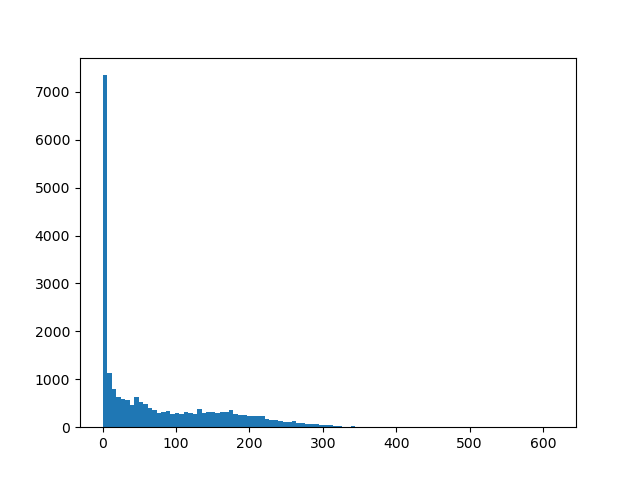
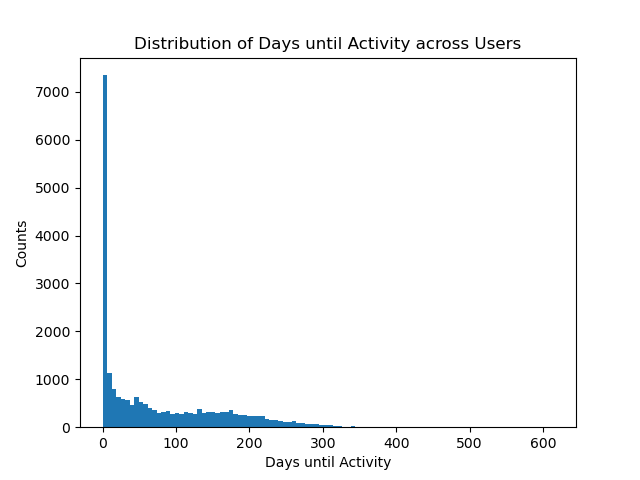
expanding answers, adding labels to graphs and fixing some mistakes

Changed region(s): [[0.2188, 0.0625, 0.8125, 0.125], [0.4062, 0.9375, 0.625, 1.0], [0.0312, 0.4688, 0.0625, 0.5625]]

diff --git a/pipeline/lin_reg_modelling.py b/pipeline/lin_reg_modelling.py
@@ -113,7 +113,7 @@ def lin_reg_week1_rev(file, df_acts_users, df_users):
     stat_sig_vars = coefs_and_p_vals.loc[coefs_and_p_vals["Probabilities"] < 0.05,"Variables"].to_list()
 
     file.write("\n\n9)")
-    file.write(f"\nT he statistically significant variables at a 5% level are {stat_sig_vars}")
+    file.write(f"\n The statistically significant variables at a 5% level are {stat_sig_vars}")
 
     return X, y
 
@@ -137,9 +137,6 @@ def predict_given_features(file, X, y):
     british_women_1week_earn = round(model.predict(predict_X)[2], 2)
 
     file.write(f"\n\n10)")
-    file.write(f"\n The average 40-year-old French woman, having generated GBP 20 on registration date, would expect to earn {french_women_1week_earn} in her first week")
-    file.write(f"\n The average 40-year-old German woman, having generated GBP 20 on registration date, would expect to earn {german_women_1week_earn} in her first week")
-    file.write(f"\n The average 40-year-old British woman, having generated GBP 20 on registration date, would expect to earn {british_women_1week_earn} in her first week")
-
-
-
+    file.write(f"\n The average 40-year-old French woman, having generated GBP 20 on registration date, would expect to earn {french_women_1week_earn} in her first week.")
+    file.write(f"\n The average 40-year-old German woman, having generated GBP 20 on registration date, would expect to earn {german_women_1week_earn} in her first week.")
+    file.write(f"\n The average 40-year-old British woman, having generated GBP 20 on registration date, would expect to earn {british_women_1week_earn} in her first week.")

diff --git a/pipeline/visualise_rev_dist.py b/pipeline/visualise_rev_dist.py
@@ -10,14 +10,23 @@ import matplotlib.pyplot as plt
 def visualise_rev_dist(df_acts_users):
 
     plt.hist(df_acts_users["Revenue"], bins=100)
+    plt.title('Distribution of Revenue across Users')
+    plt.xlabel('Revenue')
+    plt.ylabel('Counts')
     plt.savefig("answers/Q4_Dist_Revenue_by_User.png") #[2][0].figure
     plt.clf()
     
     plt.hist(df_acts_users["Revenue"], bins=100, log=True)
+    plt.title('Distribution of ln(Revenue) across Users')
+    plt.xlabel('Revenue')
+    plt.ylabel('Counts')
     plt.savefig("answers/Q4_Dist_Revenue_by_User_Logged.png")
     plt.clf()
 
     # histogram of days between reg and date
     plt.hist(df_acts_users["DaysRegtoDate"] / pd.Timedelta(1, unit='d'), bins=100)
+    plt.title('Distribution of Days until Activity across Users')
+    plt.xlabel('Days until Activity')
+    plt.ylabel('Counts')
     plt.savefig("answers/Extra_Days_Between_Registration_and_Activity.png")
     plt.clf()

diff --git a/pipeline/load_and_describe.py b/pipeline/load_and_describe.py
@@ -77,9 +77,10 @@ def merge_and_agg_stats(file, df_acts, df_users):
     median_rev = df_acts_users["Revenue"].median()
 
     file.write("\n\n3)")
-    file.write(f"\n The average earnings for an individual is {mean_rev} but the most common earning is {median_rev}.")
+    file.write(f"\n The average earnings for an individual is {mean_rev} but the middle earning is {median_rev}.")
+    file.write(f"\n The average earnings for an individual is {mean_rev} but the middle earning is {median_rev}.")
     file.write(f"\n I.e. the average earnings across all activities for the period users are active is {mean_rev},")
-    file.write(f" and the fact that the mean is greater than the median implies that the data in the population are skewed to the right.")
+    file.write(f"\n There are also probably some outliers in the data, since the mean is more sensitive to outliers.")
 
     return df_acts_users
 

diff --git a/pipeline/test_mean_difference.py b/pipeline/test_mean_difference.py
@@ -23,7 +23,7 @@ def test_mean_difference(file, df_acts_one_week):
 
     diff_means_p_val = round( ztest(x1=males, x2=females)[1], 5)
 
-    file.write(f"\n For test of null hypothesis that means are equal (assuming an equal variance), p-value is {diff_means_p_val},")
-    file.write(" thus we reject the null hypothesis that the means are equal")
+    file.write(f"\n For test of null hypothesis that means are equal (assuming an equal variance) we use a z-test, p-value is {diff_means_p_val},")
+    file.write(" thus we reject the null hypothesis that the means are equal. The difference between means is statistically significant at the 2.5% level.")
 
     # assume non-equal variance?
